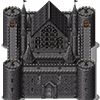
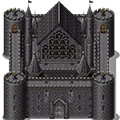
Players can't go to restricted areas such as castles

diff --git a/src/org/academiadecodigo/bootcamp55/BlowMyCastleGame/Player.java b/src/org/academiadecodigo/bootcamp55/BlowMyCastleGame/Player.java
@@ -7,67 +7,129 @@ public class Player {
 
     private int health;
     private Picture playerAvatar;
-    private Position position;
     private int speed = 5;
-    private int avatarSize = 20;
+    private int avatarSize = 40;
     private static int count = 0;
+    private Position player1Pos;
+    private Position player2Pos;
 
     public Player() {
 
         count++;
         if (count == 1) {
             // First player (Left)
-            int Xpos = 15 + Castle.getCastleSize()/2;
-            int Ypos = 700/2 + Castle.getCastleSize() - 35;
-
-            playerAvatar = new Picture(Xpos,Ypos,"player1.png");
+            player1Pos = new Position(4, 8);
+            playerAvatar = new Picture(Grid.columnToX(player1Pos.getCol()),Grid.rowToY(player1Pos.getRow()),"player1.png");
             playerAvatar.draw();
-
-            position = new Position(0, 0);
         } else {
             // Second player (Right)
-            int Xpos = 975 - Grid.getPadding() - Castle.getCastleSize()/2;
-            int Ypos = 700/2 + Castle.getCastleSize() - 35;
-
-            playerAvatar = new Picture(Xpos,Ypos,"player2.png");
+            player2Pos = new Position(20, 8);
+            playerAvatar = new Picture(Grid.columnToX(player2Pos.getCol()),Grid.rowToY(player2Pos.getRow()),"player2.png");
             playerAvatar.draw();
-
-            position = new Position(0, 0);
         }
-
-
     }
 
-    public void moveRight() {
-        playerAvatar.translate(speed,0);
-        position.moveInDirection(GridDirection.RIGHT, speed);
-        System.out.println(position.toString());
+    public void p1MoveRight() {
+        // Can't go Right if player is in the last column
+        if (player1Pos.getCol() != Grid.getTotalCols()-1) {
+            // Can't go too close to the enemy's area
+            if (player1Pos.getCol() != Castle.getCastle2Pos().getCol()-2) {
+                // Can't go Right if the castle is there
+                if (player1Pos.getCol() != Castle.getCastle1Pos().getCol() - 1 || (
+                        player1Pos.getRow() < Castle.getCastle1Pos().getRow() ||
+                                player1Pos.getRow() > Castle.getCastle1Pos().getRow() + 2)) {
+                    playerAvatar.translate(avatarSize, 0);
+                    player1Pos.moveInDirection(GridDirection.RIGHT, speed);
+                    System.out.println(player1Pos.toString());
+                }
+            }
+        }
     }
 
-    public void moveLeft() {
-        playerAvatar.translate(-speed, 0);
-        position.moveInDirection(GridDirection.LEFT, speed);
-        System.out.println(position.toString());
+    public void p1MoveLeft() {
+        if (player1Pos.getCol() != 0) {
+            if (player1Pos.getCol() != Castle.getCastle1Pos().getCol() + 3 || (
+                    player1Pos.getRow() < Castle.getCastle1Pos().getRow() ||
+                            player1Pos.getRow() > Castle.getCastle1Pos().getRow() + 2)) {
+                playerAvatar.translate(-avatarSize, 0);
+                player1Pos.moveInDirection(GridDirection.LEFT, speed);
+                System.out.println(player1Pos.toString());
+            }
+        }
     }
 
-    public void moveUp() {
-        playerAvatar.translate(0, -speed);
-        position.moveInDirection(GridDirection.UP, speed);
-        System.out.println(position.toString());
+    public void p1MoveUp() {
+        if (player1Pos.getRow() != 0) {
+            if (player1Pos.getRow() != Castle.getCastle1Pos().getRow() + 3 || (
+                    player1Pos.getCol() < Castle.getCastle1Pos().getCol() ||
+                            player1Pos.getCol() > Castle.getCastle1Pos().getCol() + 2)) {
+                playerAvatar.translate(0, -avatarSize);
+                player1Pos.moveInDirection(GridDirection.UP, speed);
+                System.out.println(player1Pos.toString());
+            }
+        }
     }
 
-    public void moveDown() {
-        playerAvatar.translate(0,speed);
-        position.moveInDirection(GridDirection.DOWN, speed);
-        System.out.println(position.toString());
+    public void p1MoveDown() {
+        if (player1Pos.getRow() != Grid.getTotalRows()-3) {
+            if (player1Pos.getRow() != Castle.getCastle1Pos().getRow()-1 || (
+                    player1Pos.getCol() < Castle.getCastle1Pos().getCol() ||
+                            player1Pos.getCol() > Castle.getCastle1Pos().getCol() + 2)) {
+                playerAvatar.translate(0,avatarSize);
+                player1Pos.moveInDirection(GridDirection.DOWN, speed);
+                System.out.println(player1Pos.toString());
+            }
+        }
     }
 
-    public int getCol() {
-        return position.getCol();
+    public void p2MoveRight() {
+        if (player2Pos.getCol() != Grid.getTotalCols()-1) {
+            if (player2Pos.getCol() != Castle.getCastle2Pos().getCol() - 1 || (
+                    player2Pos.getRow() < Castle.getCastle2Pos().getRow() ||
+                            player2Pos.getRow() > Castle.getCastle2Pos().getRow() + 2)) {
+                playerAvatar.translate(avatarSize,0);
+                player2Pos.moveInDirection(GridDirection.RIGHT, speed);
+                System.out.println(player2Pos.toString());
+            }
+        }
     }
 
-    public int getRow() {
-        return position.getRow();
+    public void p2MoveLeft() {
+        if (player2Pos.getCol() != 0) {
+            if (player2Pos.getCol() != Castle.getCastle1Pos().getCol()+4 ) {
+                if (player2Pos.getCol() != Castle.getCastle2Pos().getCol() + 3 || (
+                        player2Pos.getRow() < Castle.getCastle2Pos().getRow() ||
+                                player2Pos.getRow() > Castle.getCastle2Pos().getRow() + 2)) {
+                    playerAvatar.translate(-avatarSize, 0);
+                    player2Pos.moveInDirection(GridDirection.LEFT, speed);
+                    System.out.println(player2Pos.toString());
+                }
+            }
+        }
+    }
+
+    public void p2MoveUp() {
+        if (player2Pos.getRow() != 0) {
+            if (player2Pos.getRow() != Castle.getCastle2Pos().getRow() + 3 || (
+                    player2Pos.getCol() < Castle.getCastle2Pos().getCol() ||
+                            player2Pos.getCol() > Castle.getCastle2Pos().getCol() + 2)) {
+                playerAvatar.translate(0, -avatarSize);
+                player2Pos.moveInDirection(GridDirection.UP, speed);
+                System.out.println(player2Pos.toString());
+            }
+        }
+    }
+
+    public void p2MoveDown() {
+        if (player2Pos.getRow() != Grid.getTotalRows()-3) {
+            if (player2Pos.getRow() != Castle.getCastle2Pos().getRow()-1 || (
+                    player2Pos.getCol() < Castle.getCastle2Pos().getCol() ||
+                            player2Pos.getCol() > Castle.getCastle2Pos().getCol() + 2)) {
+                playerAvatar.translate(0,avatarSize);
+                player2Pos.moveInDirection(GridDirection.DOWN, speed);
+                System.out.println(player2Pos.toString());
+            }
+        }
     }
 
 }

diff --git a/src/org/academiadecodigo/bootcamp55/BlowMyCastleGame/objects/castle/Castle.java b/src/org/academiadecodigo/bootcamp55/BlowMyCastleGame/objects/castle/Castle.java
@@ -1,6 +1,7 @@
 package org.academiadecodigo.bootcamp55.BlowMyCastleGame.objects.castle;
 
 import org.academiadecodigo.bootcamp55.BlowMyCastleGame.Grid;
+import org.academiadecodigo.bootcamp55.BlowMyCastleGame.Position;
 import org.academiadecodigo.bootcamp55.BlowMyCastleGame.objects.Destroyable;
 import org.academiadecodigo.bootcamp55.BlowMyCastleGame.objects.GameObjects;
 import org.academiadecodigo.simplegraphics.pictures.Picture;
@@ -12,21 +13,21 @@ public class Castle extends GameObjects implements Destroyable {
     private Picture castleIcon;
     private static int count = 0;
     private static final int castleSize = 100;
+    private static Position castle1Pos;
+    private static Position castle2Pos;
 
     public Castle() {
 
         count++;
         if (count == 1) {
             // First Castle (Left)
-            int Xpos = 25 + Grid.getPadding() ;
-            int Ypos = 700/2 - castleSize/2;
-            castleIcon = new Picture(Xpos,Ypos,"castle.png");
+            castle1Pos = new Position(1,6);
+            castleIcon = new Picture(Grid.columnToX(castle1Pos.getCol()),Grid.rowToY(castle1Pos.getRow()),"castle.png");
             castleIcon.draw();
         } else {
             // Second Castle (Right)
-            int Xpos = 975 - castleSize + Grid.getPadding();
-            int Ypos = 700/2 - castleSize/2;
-            castleIcon = new Picture(Xpos,Ypos,"castle.png");
+            castle2Pos = new Position(21,6);
+            castleIcon = new Picture(Grid.columnToX(castle2Pos.getCol()),Grid.rowToY(castle2Pos.getRow()),"castle.png");
             castleIcon.draw();
         }
     }
@@ -53,5 +54,11 @@ public class Castle extends GameObjects implements Destroyable {
         return castleSize;
     }
 
+    public static Position getCastle1Pos() {
+        return castle1Pos;
+    }
 
+    public static Position getCastle2Pos() {
+        return castle2Pos;
+    }
 }

diff --git a/src/org/academiadecodigo/bootcamp55/BlowMyCastleGame/Grid.java b/src/org/academiadecodigo/bootcamp55/BlowMyCastleGame/Grid.java
@@ -12,12 +12,19 @@ public class Grid {
     private Picture canvas;
     private static final int PADDING = 10;
     private static final int waterPadding = 50;
+    private static final int cellSize = 40;
+    private static int width = 0;
+    private static int height = 0;
+    private static final int totalCols = 25;
+    private static final int totalRows = 18;
+
+    public Grid() {
+        this.width = totalCols * cellSize;
+        this.height = totalRows * cellSize;
+    }
 
     public void init() {
-//      field = new Rectangle(0, 0, 800, 500);
-//      field.draw();
-
-      canvas = new Picture(PADDING, PADDING, "background.png");
+      canvas = new Picture(PADDING, PADDING, "background2.png");
       canvas.draw();
     }
 
@@ -28,4 +35,33 @@ public class Grid {
     public static int getWaterPadding() {
         return waterPadding;
     }
+
+    public int getWidth() {
+        return width;
+    }
+
+    public int getHeight() {
+        return height;
+    }
+
+    public static int getCellSize() {
+        return cellSize;
+    }
+
+    public static int rowToY(int row) {
+        return row * cellSize + PADDING;
+    }
+
+    public static int columnToX(int col) {
+        return col * cellSize + PADDING;
+    }
+
+    public static int getTotalCols(){
+        return totalCols;
+    }
+
+    public static int getTotalRows() {
+        return totalRows;
+    }
+
 }

diff --git a/src/org/academiadecodigo/bootcamp55/BlowMyCastleGame/MyKeyboard.java b/src/org/academiadecodigo/bootcamp55/BlowMyCastleGame/MyKeyboard.java
@@ -63,21 +63,21 @@ public class MyKeyboard implements KeyboardHandler {
     public void keyPressed(KeyboardEvent e) {
 
         if (e.getKey() == KeyboardEvent.KEY_RIGHT) {
-            player2.moveRight();
+            player2.p2MoveRight();
         } else if (e.getKey() == KeyboardEvent.KEY_LEFT) {
-            player2.moveLeft();
+            player2.p2MoveLeft();
         } else if (e.getKey() == KeyboardEvent.KEY_UP) {
-            player2.moveUp();
+            player2.p2MoveUp();
         } else if (e.getKey() == KeyboardEvent.KEY_DOWN) {
-            player2.moveDown();
+            player2.p2MoveDown();
         } else if (e.getKey() == KeyboardEvent.KEY_D) {
-            player1.moveRight();
+            player1.p1MoveRight();
         } else if (e.getKey() == KeyboardEvent.KEY_A) {
-            player1.moveLeft();
+            player1.p1MoveLeft();
         } else if (e.getKey() == KeyboardEvent.KEY_W) {
-            player1.moveUp();
+            player1.p1MoveUp();
         } else if (e.getKey() == KeyboardEvent.KEY_S) {
-            player1.moveDown();
+            player1.p1MoveDown();
         }
     }
 

diff --git a/src/org/academiadecodigo/bootcamp55/BlowMyCastleGame/objects/weapons/Bomb.java b/src/org/academiadecodigo/bootcamp55/BlowMyCastleGame/objects/weapons/Bomb.java
@@ -4,18 +4,16 @@ import org.academiadecodigo.bootcamp55.BlowMyCastleGame.Grid;
 import org.academiadecodigo.bootcamp55.BlowMyCastleGame.objects.GameObjects;
 import org.academiadecodigo.simplegraphics.pictures.Picture;
 
-import java.util.concurrent.TimeUnit;
-
 public class Bomb extends GameObjects {
 
     private Picture bombIcon;
 
     public Bomb() {
 
-        int randomX = (int)(Math.random()*(750-250)+250);
-        int randomY = (int)(Math.random()*((700-Grid.getPadding()-Grid.getWaterPadding())-(0+Grid.getPadding())));
+        int randomCol = (int)(Math.random()*(19-6)+6);
+        int randomRow = (int)(Math.random()*(16-1)+1);
 
-        bombIcon = new Picture(randomX,randomY,"bombIcon.png");
+        bombIcon = new Picture(Grid.columnToX(randomCol),Grid.rowToY(randomRow),"bombIcon.png");
         bombIcon.draw();
     }
 

diff --git a/src/org/academiadecodigo/bootcamp55/BlowMyCastleGame/Position.java b/src/org/academiadecodigo/bootcamp55/BlowMyCastleGame/Position.java
@@ -41,19 +41,19 @@ public class Position {
     }
 
     public void moveUp(int distance) {
-        setPos(getCol(), getRow() - distance);
+        row -= 1;
     }
 
     public void moveDown(int distance) {
-        setPos(getCol(), getRow() + distance);
+        row += 1;
     }
 
     public void moveLeft(int distance) {
-        setPos(getCol() - distance, getRow());
+        col -= 1;
     }
 
     public void moveRight(int distance) {
-        setPos(getCol() + distance, getRow());
+        col += 1;
     }
 
     public String toString() {
